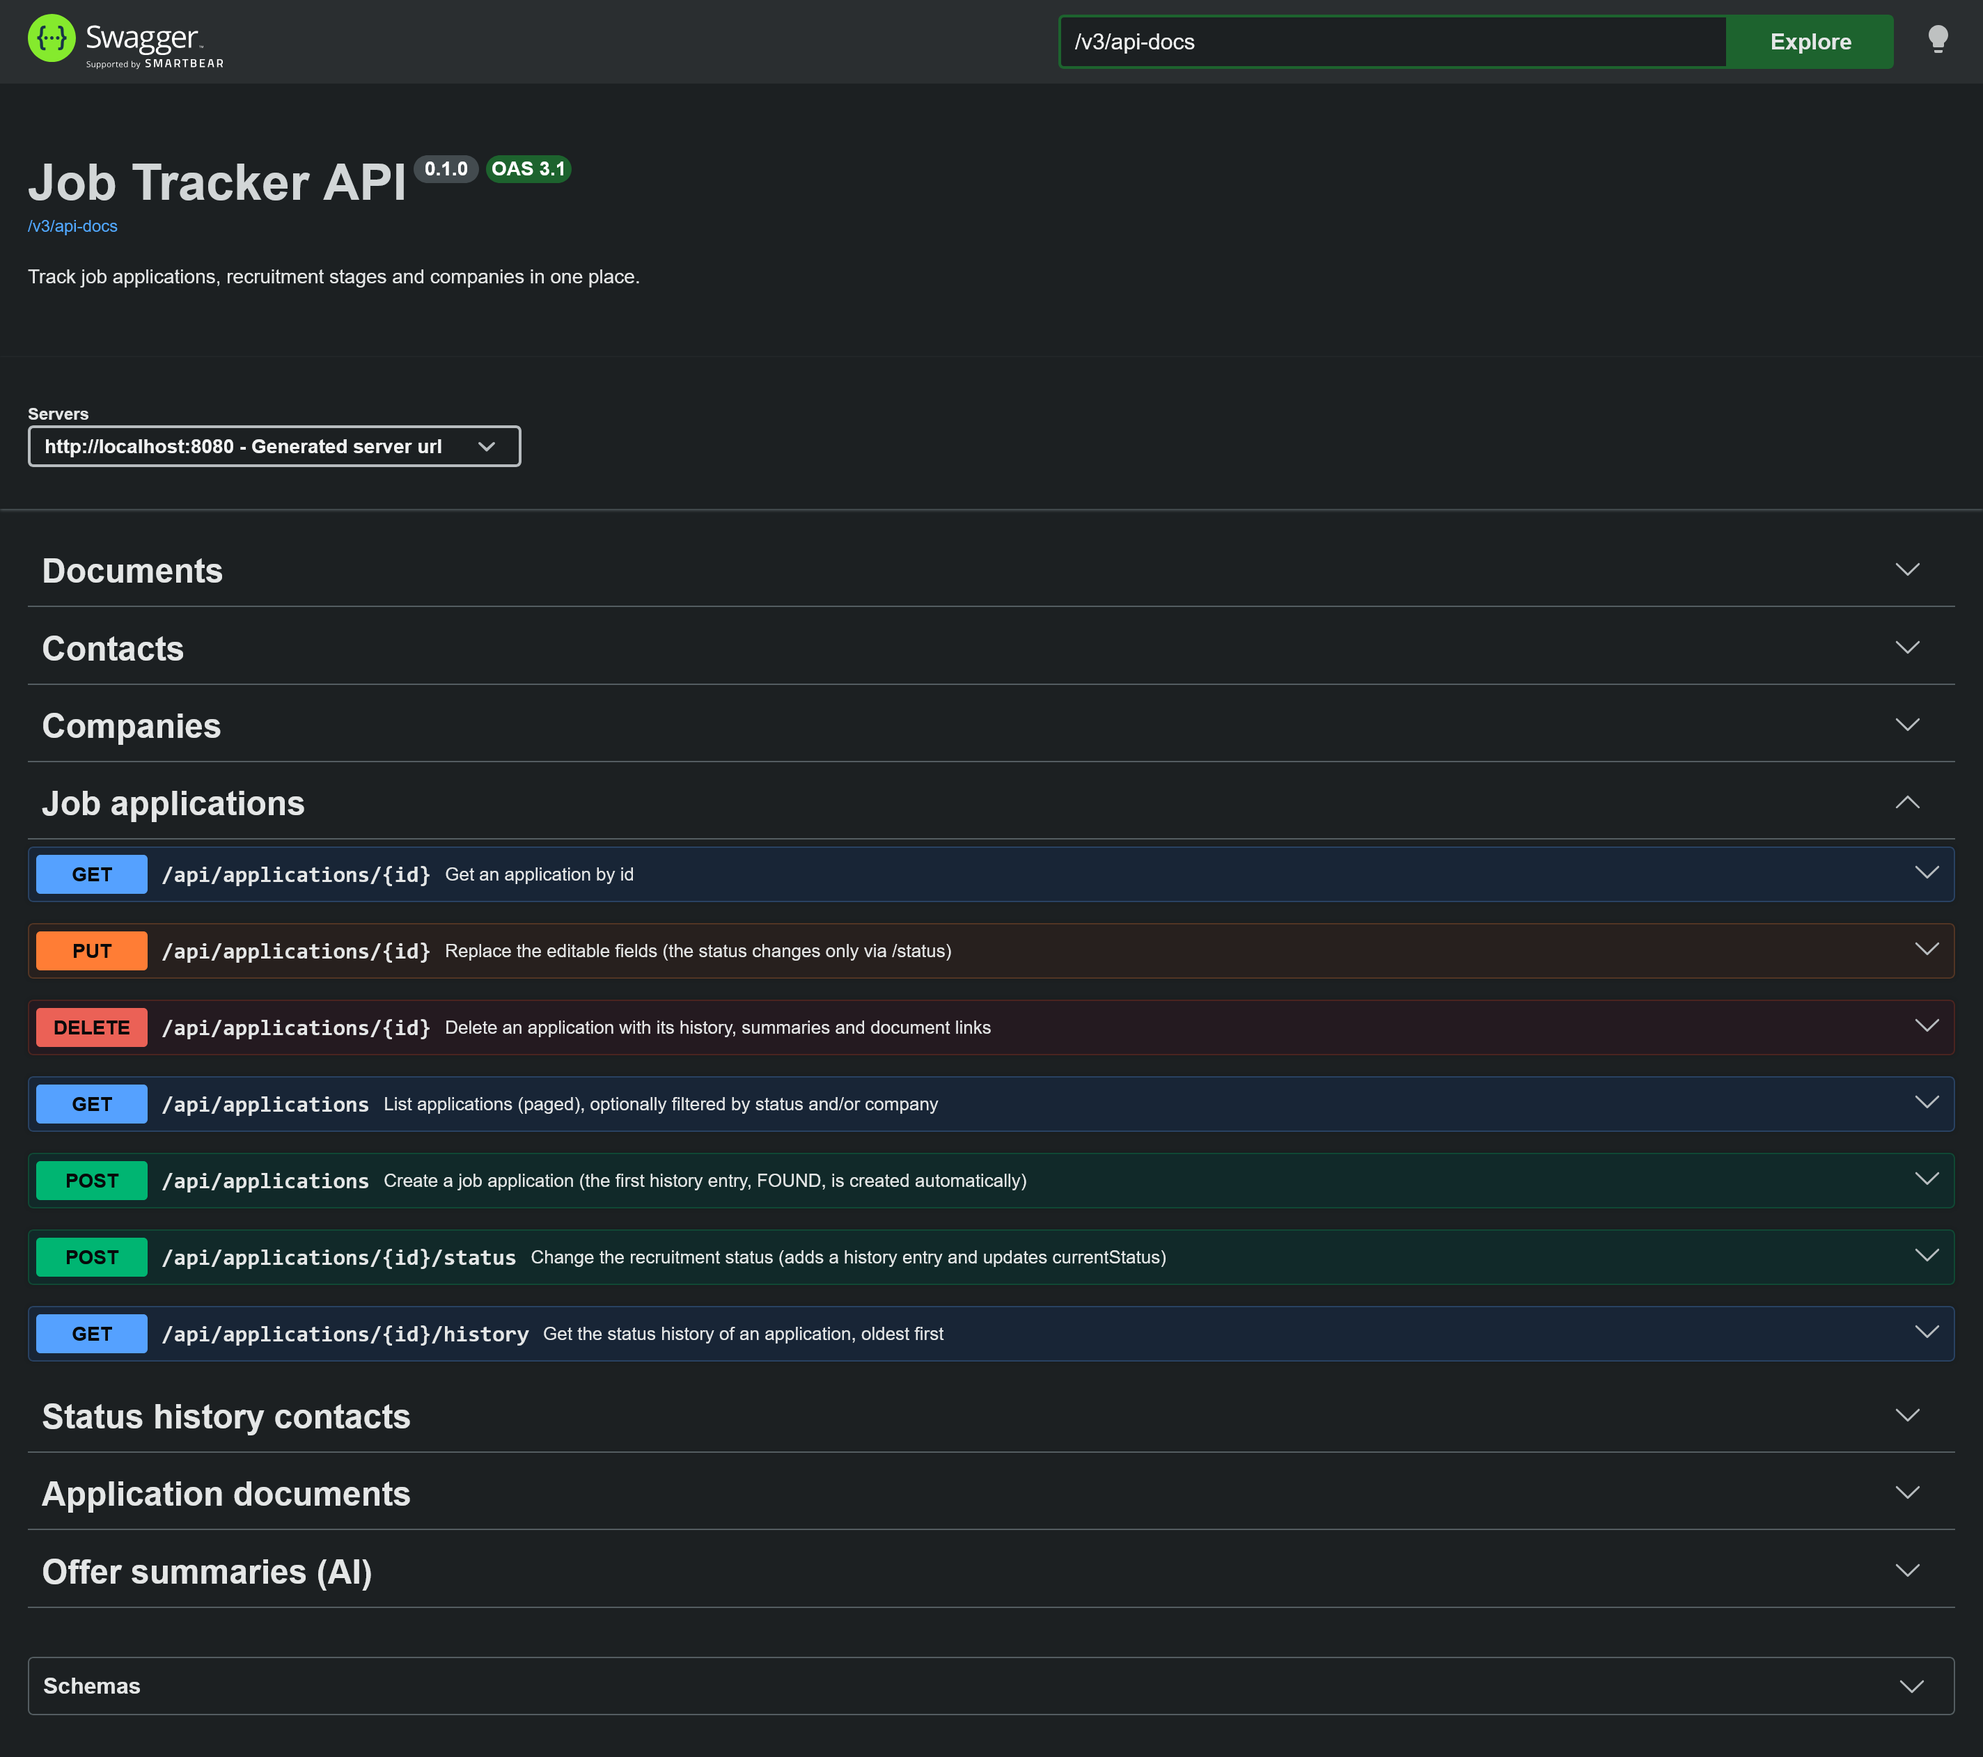
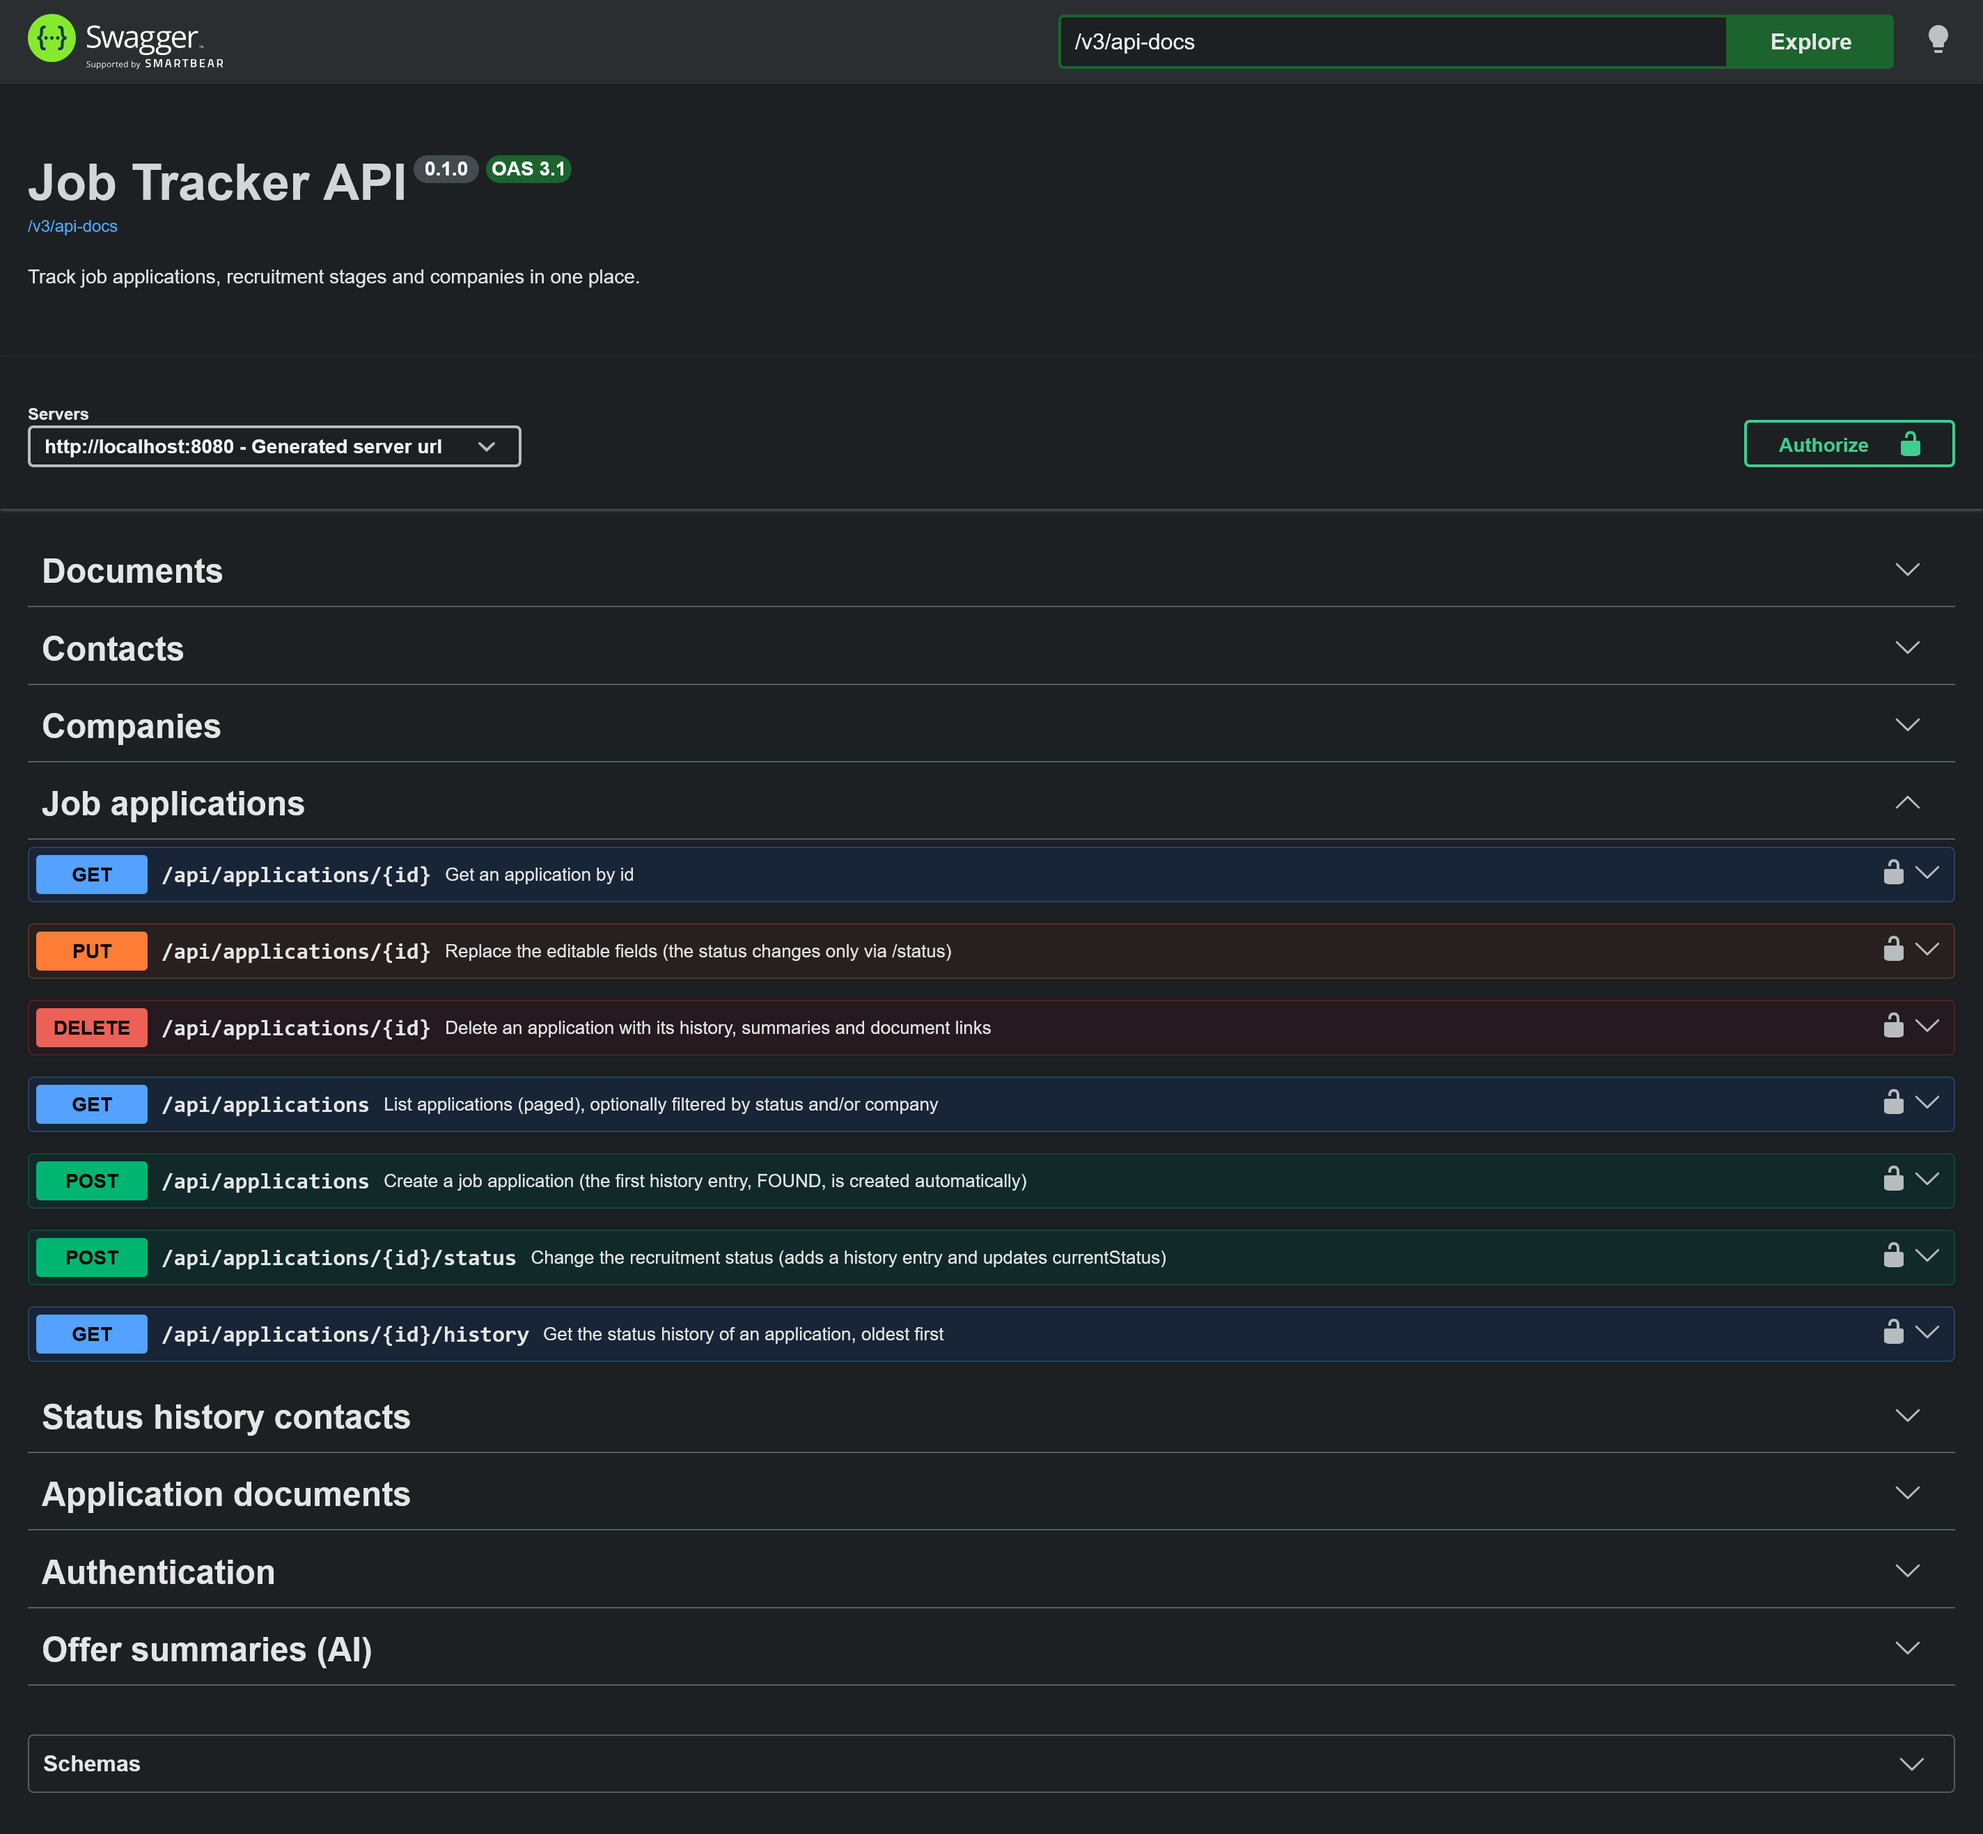
docs: update README with security features, demo mode details, and configuration instructions

diff --git a/README.md b/README.md
@@ -1,13 +1,10 @@
 # Job Tracker
 
 ![CI](https://github.com/Czyknk/job-tracker/actions/workflows/ci.yml/badge.svg)
-[![License: GPL v3](https://img.shields.io/badge/License-GPLv3-blue.svg)](./LICENSE)
+[![License: GPL v3](https://img.shields.io/badge/License-GPLv3-blue.svg)](/LICENSE)
 
 A REST API that keeps your whole job search in one place: the offers you applied to, the CV and cover letter you
 sent, every recruitment stage, the people you talked to, and an AI-generated summary of each job offer.
-
-A portfolio project built to practice production-style backend development with Java, Spring Boot, PostgreSQL,
-Docker and CI.
 
 ![Swagger UI](docs/swagger-ui.png)
 
@@ -18,13 +15,14 @@ Docker and CI.
 - Contacts (recruiters, interviewers) linked to the exact stages they took part in
 - Documents (CVs, cover letters) with real file upload to S3-compatible storage, attachable to applications
 - AI summary of a pasted job description, with automatic fallback to a second model
+- Authentication with short-lived JWT access tokens and rotating refresh tokens; read-only demo mode
 - OpenAPI documentation with Swagger UI
 
 ## Tech stack
 
-Java 25 · Spring Boot 4.1 (Web MVC, Data JPA, Validation) · PostgreSQL 17 + Flyway · Silo (S3-compatible storage) ·
-springdoc-openapi · Gemini via an OpenAI-compatible client · JUnit 5, Mockito, Testcontainers ·
-Maven, Docker Compose, GitHub Actions
+Java 25 · Spring Boot 4.1 (Web MVC, Data JPA, Validation, Security) · PostgreSQL 17 + Flyway ·
+Silo (S3-compatible storage) · springdoc-openapi · Gemini via an OpenAI-compatible client ·
+JUnit 5, Mockito, Testcontainers · Maven, Docker Compose, GitHub Actions
 
 ## Architecture
 
@@ -56,12 +54,34 @@ erDiagram
 
 Postgres stores metadata (including the object key of each file); file contents live in S3 storage.
 
+## Security
+
+```mermaid
+sequenceDiagram
+    participant C as Client
+    participant A as API
+    C->>A: POST /api/auth/login (email, password)
+    A-->>C: access token (JWT, 15 min) + refresh token (httpOnly cookie)
+    C->>A: GET /api/... with Authorization: Bearer
+    C->>A: POST /api/auth/refresh (cookie)
+    A-->>C: new access token + rotated refresh cookie
+```
+
+- Stateless API secured with Spring Security (OAuth2 resource server, HS256 JWT with a pinned algorithm).
+- Passwords are hashed with BCrypt; login errors are generic and take comparable time for unknown users.
+- Refresh tokens are random, stored only as SHA-256 hashes, rotated on every use, and reuse of a consumed token
+  revokes the whole session. The cookie is `httpOnly`, `SameSite=Strict` and scoped to `/api/auth`.
+- Roles: `ADMIN` can do everything, `DEMO` is read-only. Errors use the same RFC 9457 format as the rest of the API.
+- There is a single owner account, created on first start from environment variables (no registration).
+
 ## API overview
 
-All endpoints live under `/api`; full request/response details are in Swagger UI.
+All endpoints live under `/api` and require `Authorization: Bearer <token>` except the ones under `/api/auth`.
+Full request/response details are in Swagger UI.
 
 | Resource | Endpoints |
 | --- | --- |
+| Authentication | `POST /auth/login`, `POST /auth/refresh`, `POST /auth/logout` |
 | Companies | `POST/GET /companies`, `GET/PUT/DELETE /companies/{id}` |
 | Applications | `POST/GET /applications`, `GET/PUT/DELETE /applications/{id}`, `POST /applications/{id}/status`, `GET /applications/{id}/history` |
 | Contacts | `POST/GET /contacts`, `GET/PUT/DELETE /contacts/{id}`, `PUT/DELETE /applications/{id}/history/{entryId}/contacts/{contactId}` |
@@ -74,7 +94,16 @@ All endpoints live under `/api`; full request/response details are in Swagger UI
 Requires Docker with Compose.
 
 ```bash
-cp .env.example .env          # optional: set GEMINI_API_KEY
+cp .env.example .env
+```
+
+Edit `.env` and set at least:
+
+- `JWT_SECRET`: at least 32 random bytes, for example `openssl rand -base64 48`
+- `APP_ADMIN_EMAIL` and `APP_ADMIN_PASSWORD` (at least 12 characters): the owner account, created on first start
+- optionally `GEMINI_API_KEY`: a free key from [Google AI Studio](https://aistudio.google.com/)
+
+```bash
 docker compose up --build
 ```
 
@@ -83,16 +112,29 @@ docker compose up --build
 | Swagger UI | http://localhost:8080/swagger-ui/index.html |
 | Silo console | http://localhost:9001 (`minioadmin` / `minioadmin`, local use only) |
 
-Flyway migrations run automatically on startup. A free Gemini key is available in
-[Google AI Studio](https://aistudio.google.com/); without it, everything works except the AI summaries
-(those endpoints return `503`). Stop with `docker compose down` (add `-v` to also delete data).
+In Swagger UI call `POST /api/auth/login`, click **Authorize** and paste the returned `accessToken` (without the
+`Bearer ` prefix). Flyway migrations run automatically on startup. Without a Gemini key everything works except the
+AI summaries (those endpoints return `503`). Stop with `docker compose down` (add `-v` to also delete data).
 
 Example file upload:
 
 ```bash
 curl -X POST http://localhost:8080/api/documents/upload \
+  -H "Authorization: Bearer <accessToken>" \
   -F "file=@CV.pdf" -F "type=CV" -F "name=CV Java Backend"
 ```
+
+## Demo mode
+
+A dedicated, read-only instance with fictional sample data and a public demo account (no owner account, no AI key):
+
+```bash
+docker compose -p jobtracker-demo -f docker-compose.yml -f docker-compose.demo.yml up --build
+```
+
+Log in with `demo@job-tracker.example` / `demo-readonly-pass`. The `DEMO` role can read everything and modify
+nothing. Demo mode refuses to start next to an owner account, because the application has no per-user data
+isolation and the demo user would see the owner's data.
 
 ## Configuration
 
@@ -100,6 +142,10 @@ Defaults work with the provided `docker-compose.yml`; override them with environ
 
 | Variable | Default | Purpose |
 | --- | --- | --- |
+| `JWT_SECRET` | none (required) | Signing key for access tokens, at least 32 bytes |
+| `APP_ADMIN_EMAIL`, `APP_ADMIN_PASSWORD` | none | Owner account created when the user table is empty |
+| `COOKIE_SECURE` | `false` in Compose | Set to `true` behind HTTPS so the refresh cookie is sent only over TLS |
+| `APP_DEMO_ENABLED` | `false` | Demo mode (see above) |
 | `DB_URL`, `DB_USER`, `DB_PASSWORD` | `localhost`, `jobtracker`, `jobtracker` | PostgreSQL connection |
 | `S3_ENDPOINT`, `S3_ACCESS_KEY`, `S3_SECRET_KEY`, `S3_BUCKET`, `S3_REGION` | local Silo defaults | S3-compatible storage |
 | `GEMINI_API_KEY` | none | AI provider key |
@@ -116,19 +162,31 @@ docker compose up -d db minio     # infrastructure only
 ./mvnw verify                     # tests; Docker must be running
 ```
 
+When running from an IDE, set `JWT_SECRET`, `APP_ADMIN_EMAIL` and `APP_ADMIN_PASSWORD` as environment variables.
+
 Integration tests run against a throwaway PostgreSQL container (Testcontainers), never against the development
-database, and the LLM is replaced by a fake, so no API key is needed.
+database, with their own test configuration (no secrets needed), and the LLM is replaced by a fake.
 
 ## CI/CD
 
 GitHub Actions builds and tests every push to `main` and every pull request (`./mvnw verify`), builds the Docker
 image, and publishes it to GitHub Container Registry on `main`. Dependabot proposes weekly dependency updates.
 
+## Design decisions
+
+- **Flyway owns the schema**; `ddl-auto: validate` fails fast on any entity/migration mismatch.
+- **Status history is the source of truth**; `currentStatus` is a denormalized column updated in the same transaction.
+- **Metadata in the database, bytes in S3**, behind an `ObjectStorage` abstraction. Documents attached to
+  applications cannot be deleted, only archived.
+- **Authorization lives in one place**: URL rules by HTTP method (read for any role, write for `ADMIN`).
+- **AI is used for one narrow task.** The job posting is passed as delimited data and the model is told to ignore any
+  instructions inside it; the model call happens outside any database transaction.
+
 ## Roadmap
 
-Authentication (Spring Security + JWT) · statistics (funnel, time between stages, CV effectiveness) · reminders ·
-importing job-alert e-mails as suggested offers · online demo
+React + TypeScript frontend · statistics (funnel, time between stages, CV effectiveness) · reminders ·
+importing job-alert e-mails as suggested offers · per-user data isolation · hosted demo
 
 ## License
 
-GPL v3, see [LICENSE](./LICENSE).
+GPL v3, see [LICENSE](/LICENSE).
